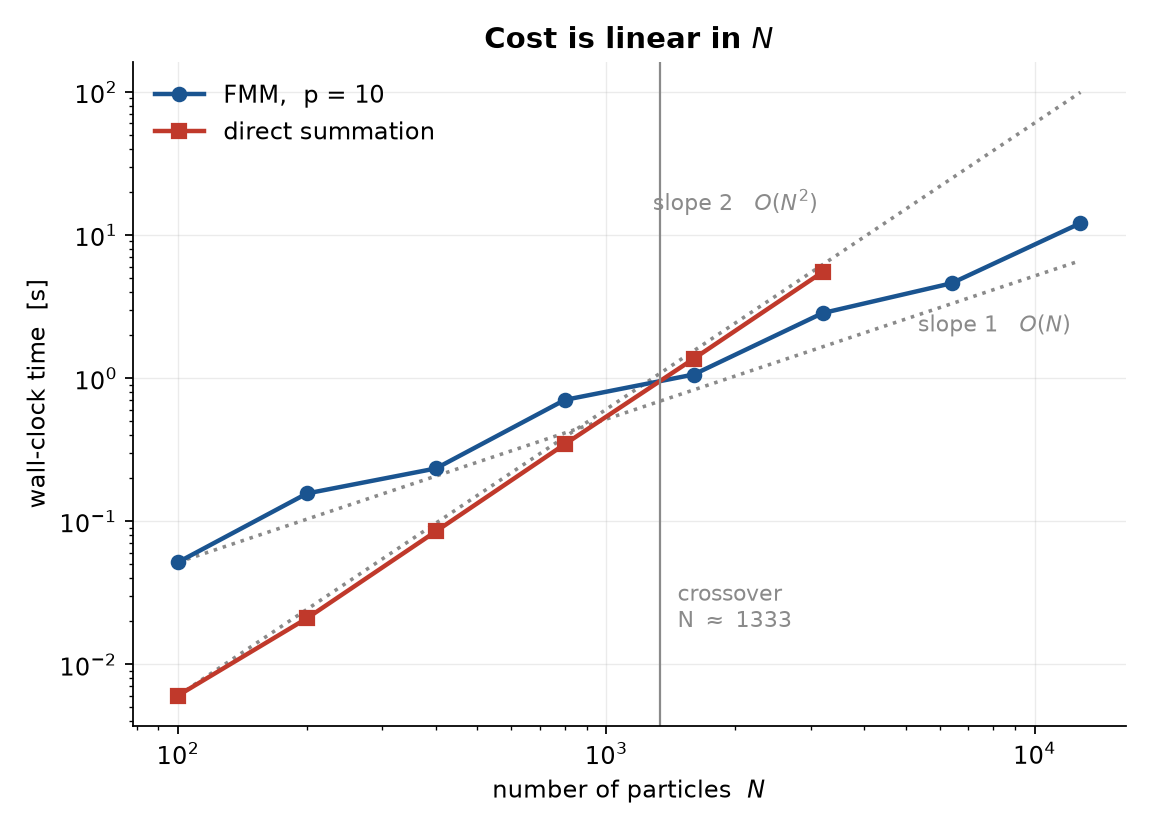
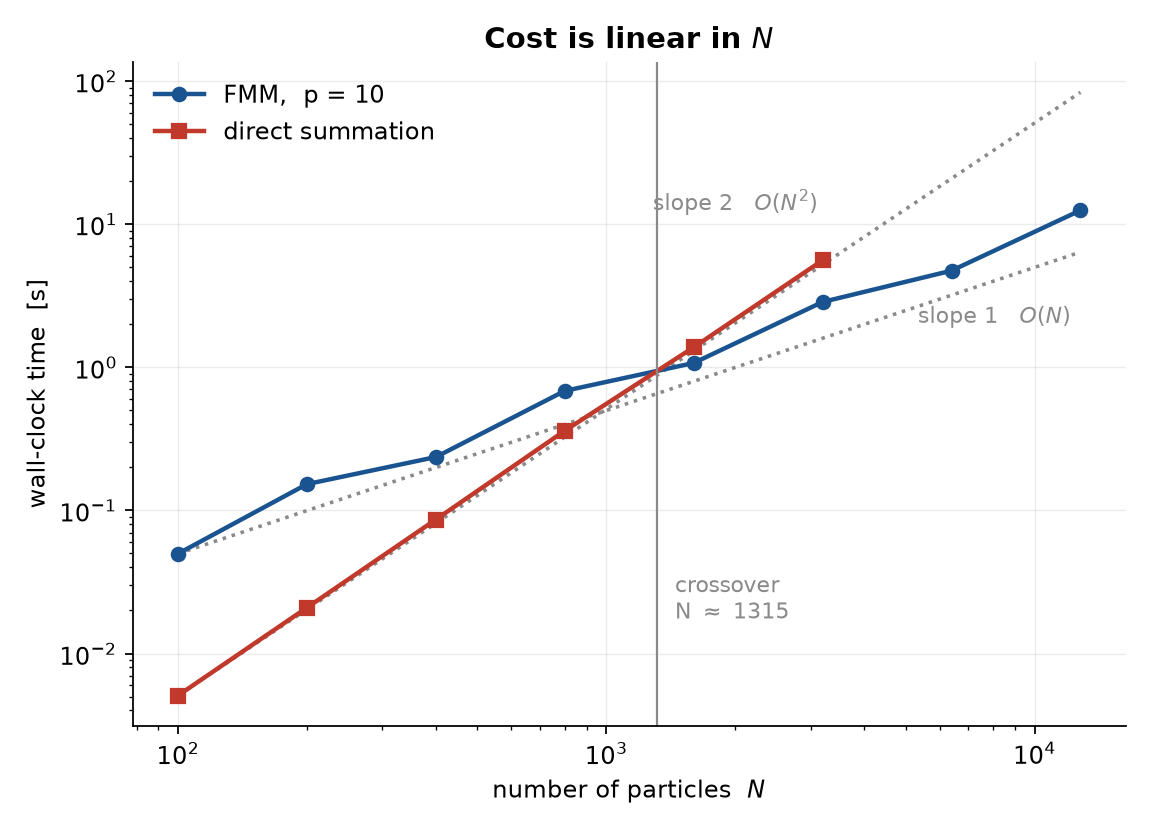
Clean up scratch files, add trace.py

diff --git a/trace.py b/trace.py
@@ -1,0 +1,140 @@
+"""
+Watch the FMM run.  python walkthrough2.py
+
+Executes the seven steps of Section 3 on the 8-particle case and prints
+the contents of phi and psi after each one, so you can see the algorithm
+build its state instead of reading the loops.
+"""
+import numpy as np
+from fmm import (direct_all, box_center, box_index, well_separated,
+                 interaction_list, build_tree, p2m, m2m, m2l, l2l,
+                 eval_local, direct_sum)
+
+z = np.array([0.42+0.42j, 0.45+0.40j, 0.10+0.10j, 0.90+0.15j,
+              0.20+0.85j, 0.80+0.80j, 0.55+0.60j, 0.30+0.35j])
+q = np.array([1.0, -1.0, 2.0, -1.0, 1.0, -2.0, 1.0, 1.0])
+NAME = {0:'p1', 1:'p2', 2:'p3', 3:'p4', 4:'p5', 5:'p6', 6:'p7', 7:'p8'}
+n, p = 3, 10
+TARGET = (3, 3)          # the box we follow
+tree = build_tree(z, n)
+
+
+def rule(t):
+    print("\n" + "=" * 66); print(t); print("=" * 66)
+
+
+rule("THE TREE  (build_tree)")
+print(f"{len(tree)} occupied boxes out of {4**n}.  The other "
+      f"{4**n - len(tree)} are empty and never created.\n")
+for k in sorted(tree):
+    who = ", ".join(NAME[i] for i in tree[k])
+    print(f"  level {k[0]}  box ({k[1]},{k[2]})   holds {who}")
+
+# ---------------------------------------------------------------- STEP 1
+rule("STEP 1 - P2M     particles -> multipole,  finest level only")
+phi = {}
+for (lev, c, r), idx in tree.items():
+    phi[(n, c, r)] = p2m(z[idx], q[idx], box_center(n, c, r), p)
+print("  Theorem 2.1 applied once per occupied box.  This is where")
+print("  particles become coefficients - M2M, M2L and L2L never see")
+print("  a particle again.\n")
+print(f"  {'box':>10}   {'Q':>7}   {'a1':>26}")
+for k in sorted(phi):
+    a = phi[k]
+    print(f"  {str(k[1:]):>10}   {a[0].real:7.3f}   {a[1]:>26.5f}")
+print("\n  Note box (3,3): Q = 0 because +1 and -1 cancel, but a1 is not 0.")
+print("  A neutral box still radiates - that is the dipole.")
+
+# ---------------------------------------------------------------- STEP 2
+rule("STEP 2 - M2M     multipole -> multipole,  UP the tree")
+for lev in range(n - 1, -1, -1):
+    made = []
+    for (l0, c, r) in [k for k in list(phi) if k[0] == lev + 1]:
+        pc, pr = c // 2, r // 2
+        if (lev, pc, pr) not in phi:
+            phi[(lev, pc, pr)] = np.zeros(p + 1, dtype=complex)
+            made.append((pc, pr))
+        phi[(lev, pc, pr)] += m2m(phi[(lev + 1, c, r)],
+                                  box_center(lev + 1, c, r) - box_center(lev, pc, pr), p)
+    boxes = sorted(k for k in phi if k[0] == lev)
+    print(f"\n  level {lev}:  {len(boxes)} boxes now have an expansion")
+    for k in boxes:
+        kids = [kk[1:] for kk in phi if kk[0] == lev + 1
+                and kk[1] // 2 == k[1] and kk[2] // 2 == k[2]]
+        print(f"    box {str(k[1:]):>8}   Q = {phi[k][0].real:6.2f}   "
+              f"built from children {kids}")
+print("\n  No particle was touched. Coefficients only - that is why it is O(p^2)")
+print("  per box regardless of how many particles lie underneath.")
+
+# ---------------------------------------------------------------- STEPS 3,4
+rule(f"STEPS 3a, 3b, 4 - the downward pass,  following box {TARGET}")
+psi = {}
+for lev in range(2, n + 1):
+    for (l0, c, r) in [k for k in phi if k[0] == lev]:
+        zc = box_center(lev, c, r)
+        if lev == 2:
+            b = np.zeros(p + 1, dtype=complex)
+        else:
+            pc, pr = c // 2, r // 2
+            b = l2l(psi[(lev - 1, pc, pr)], box_center(lev - 1, pc, pr) - zc, p)
+        inherited = b[0]
+        added = []
+        for (cc, rr) in interaction_list(lev, (c, r)):
+            if (lev, cc, rr) in phi:
+                b += m2l(phi[(lev, cc, rr)], box_center(lev, cc, rr) - zc, p)
+                added.append((cc, rr))
+        psi[(lev, c, r)] = b
+        if (c, r) == (TARGET[0] >> (n - lev), TARGET[1] >> (n - lev)):
+            print(f"\n  LEVEL {lev},  box ({c},{r})"
+                  f"      <- the ancestor of {TARGET}")
+            if lev == 2:
+                print("    inherited : nothing.  Psi at level 1 is zero in free space,")
+                print("                so the downward pass starts here.")
+            else:
+                print(f"    inherited : b0 = {inherited:.5f}   (L2L from the parent)")
+            ilist = interaction_list(lev, (c, r))
+            print(f"    interaction list: {len(ilist)} boxes, of which "
+                  f"{len(added)} are occupied -> {added}")
+            who = []
+            for (cc, rr) in added:
+                for k2 in tree:
+                    if k2[0] == n and (k2[1] >> (n - lev), k2[2] >> (n - lev)) == (cc, rr):
+                        who += [NAME[i] for i in tree[k2]]
+            print(f"    so this level delivers: {', '.join(who) if who else '-'}")
+            print(f"    Psi complete: b0 = {b[0]:.5f}")
+
+# ---------------------------------------------------------------- STEP 5
+rule("STEP 5 - evaluate  Psi at the particles of the finest box")
+zc = box_center(n, *TARGET)
+far = {}
+for i in tree[(n,) + TARGET]:
+    far[i] = eval_local(psi[(n,) + TARGET], z[i], zc, p)
+    print(f"  {NAME[i]}   FAR = {far[i].real:.8f}      "
+          f"one polynomial evaluation, {p+1} terms")
+print("\n  Same coefficients for both particles - only the input differs.")
+
+# ---------------------------------------------------------------- STEP 6
+rule("STEP 6 - direct summation over the 9-box neighbourhood")
+near = direct_sum(z, q, tree, n)
+nb = []
+for cc in range(TARGET[0]-1, TARGET[0]+2):
+    for rr in range(TARGET[1]-1, TARGET[1]+2):
+        if (n, cc, rr) in tree:
+            nb += [NAME[i] for i in tree[(n, cc, rr)]]
+print(f"  neighbours of {TARGET} holding particles: {', '.join(nb)}")
+print(f"  p1 NEAR = {near[0].real:.8f}   (brute force over 3 particles, not 7)")
+
+# ---------------------------------------------------------------- STEP 7
+rule("STEP 7 - add,  and check")
+tot = far[0] + near[0]
+exact = direct_all(z, q)[0]
+print(f"  FAR  {far[0].real:>14.10f}")
+print(f"  NEAR {near[0].real:>14.10f}")
+print(f"  ---------------------------")
+print(f"  FMM  {tot.real:>14.10f}")
+print(f"  exact{exact.real:>14.10f}")
+print(f"\n  absolute error {abs(tot.real-exact.real):.2e}")
+A = np.sum(np.abs(q))
+print(f"  bound A*2^-p = {A*2.0**-p:.2e}    (A = {A:.0f}, p = {p})")
+print("\n  Seven orders of magnitude under the bound. The bound assumes every")
+print("  charge sits on the circle and every target at the closest legal point.")

diff --git a/fmm.py b/fmm.py
@@ -24,11 +24,11 @@ def direct_all (z,q):
     definition of phi on p. 281. Used as ground truth for verifying fmm().
     """
     N = len(z)  #how many particles
-    pot = np.zeros(N, dtype=complex)
-    for i in range(N):              # target particle  (the star)
-        for j in range(N):          # every source     (the red lines)
+    pot = np.zeros(N, dtype=complex)   #accumulating with += from zeros.
+    for i in range(N):              # target particle
+        for j in range(N):          # every source 
             if j != i:              # a particle does not act on itself
-                pot[i] += q[j]*np.log(z[i]-z[j])       # <-- Eq. (2.7): one red line's contribution
+                pot[i] += q[j]*np.log(z[i]-z[j])       # Eq. (2.7)  
     return pot
 
 
@@ -82,10 +82,10 @@ def interaction_list(level, box):
     m_parent = 2 ** (level - 1)               # boxes per side one level up
     result = []
 
-    for pc in range(parent[0] - 1, parent[0] + 2):        # parent's 3 columns
-        for pr in range(parent[1] - 1, parent[1] + 2):    # parent's 3 rows
-            if not (0 <= pc < m_parent and 0 <= pr < m_parent):
-                continue                                  # off the grid, skip
+    for pc in range(parent[0] - 1, parent[0] + 2):        # columns 0, 1, 2
+        for pr in range(parent[1] - 1, parent[1] + 2):    # rows 0, 1, 2
+            if not (0 <= pc < m_parent and 0 <= pr < m_parent):   #if this parent isn't on the grid, skip it.
+                continue                                 
             for cc in (2 * pc, 2 * pc + 1):               # that box's 2 child columns
                 for cr in (2 * pr, 2 * pr + 1):
                     if well_separated((cc, cr), box):   # keep only well-separated ones
@@ -171,9 +171,9 @@ def m2m(a, z0, p):
     b = np.zeros(p + 1, dtype=complex)
     b[0] = a[0]
     for l in range(1, p + 1):
-        s = -a[0] * z0**l / l
+        s = -a[0] * z0**l / l            # Piece 1
         for k in range(1, l + 1):
-            s += a[k] * z0**(l - k) * comb(l - 1, k - 1)
+            s += a[k] * z0**(l - k) * comb(l - 1, k - 1)   # Piece 2
         b[l] = s
     return b
 
